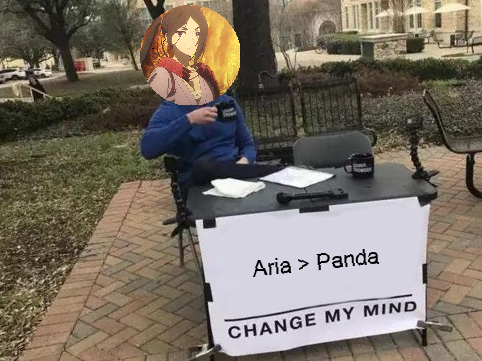
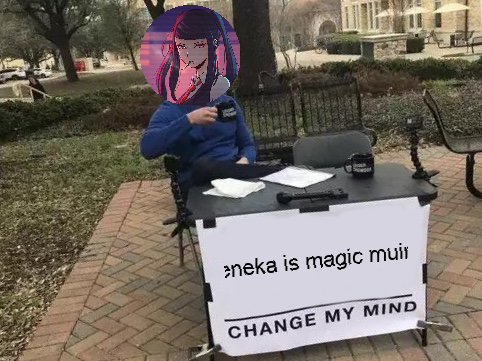
update ames
Updated gacha util mode option 'test'
Updated chara to accomodate mlb
Updated chara to accomodate rec rank
Added neneka assets

Changed region(s): [[0.2801, 0.0, 0.4979, 0.3047], [0.4668, 0.6704, 0.8714, 0.7618]]

diff --git a/commands/hatsune_new.py b/commands/hatsune_new.py
@@ -217,13 +217,16 @@ async def hatsune_chara(ctx, name, flags, emj, client, cmode="", mode="Profile")
     uedata = _ue_data(target, flags)
 
     # skill data
+    ddata = get_stats(target_id, flags)
+    ddata['uname_eng'] = cdata['uname_eng']
+    ddata['im'] = cdata['im']
 
     # equipment data
 
     # create page embeds
     c_embed = charaembed(cdata, cmode, skills, page_headings.copy(), 0)
     ue_embed = ueembed(uedata, skills, page_headings.copy(), 1)
-    d_embed = skillsembed(page_headings.copy(), 2)
+    d_embed = skillsembed(ddata, page_headings.copy(), 2)
 
     embeds = [c_embed, ue_embed, d_embed]
 
@@ -265,47 +268,50 @@ async def hatsune_chara(ctx, name, flags, emj, client, cmode="", mode="Profile")
     print('chara: successful!')
     return
 
-    
+#############################################################################################
+# subfunctions
 
+def get_stats(target_id, flags):
+    #WIP
+    func = '_stats:'
+    data = dict()
+    data['max_rank'] = 14
+    data['active'] = False
 
+    # grab eq Rank stats
+    stats = ("SELECT rank_up from princonne.chara_data_final "
+             "WHERE unit_id = {:s}".format(target_id))
 
+    try:
+        cursor = flags['cb_db'].cursor()
+        cursor.execute(stats, )
+    except mysql.connector.Error as err:
+        print(func, err)
+        cursor.close()
+        return data
+    else:
+        for rank in cursor:
+            rank = str(rank[0])
+            if rank == "Yes":
+                data['rank'] = str(data['max_rank'])
+            elif rank == 'Maybe':
+                data['rank'] = "-".join([str(data['max_rank'] - 1), str(data['max_rank'])])
+            elif rank == 'No':
+                data['rank'] = str(data['max_rank']-1)
+            else:
+                data['rank'] = '??'
 
-
-
-
-
-
-
-
-
-
-
-
-
-
-
-
-
-
-
-
-
-
-
-
-
-
-def get_stats(target, flags):
-    pass
+    return data
 
 #
-def skillsembed(page_h, ind):
+def skillsembed(data, page_h, ind):
     page_h[ind] = '**[{:s}]**'.format(page_h[ind])
-    star = '⭐'
+    #star = '⭐'
+    uncap = '??'
 
     embed = discord.Embed(
-        title="Test title",
-        description="Test description",
+        title="{:s}'s Data".format(data['uname_eng']),
+        description="WIP",
         timestamp=datetime.datetime.utcnow(),
         colour=rc())
 
@@ -316,11 +322,11 @@ def skillsembed(page_h, ind):
 
     embed.set_author(name="Hatsune's Copied Notes")
     embed.set_footer(text='Data page')
-    embed.set_thumbnail(url='https://redive.estertion.win/icon/item/31000.webp')
+    embed.set_thumbnail(url=data['im'])
 
     embed.add_field(
         name="Rec. Setup",
-        value="0⭐ - eq rank",
+        value=" ⭐ Rank ".join([uncap, data['rank']]),
         inline=True)
 
     embed.add_field(
@@ -489,7 +495,8 @@ def _chara_data(target_id, flags):
     get_chara_data = ("SELECT image, unit_name_eng, "
                       "ub_trans, skill_1_translation, skill_2_trans, "
                       "comment_trans, tag, skill_1_plus_trans, "
-                      "unit_name, union_burst, skill_1, skill_1_plus, skill_2, comment "
+                      "unit_name, union_burst, skill_1, skill_1_plus, skill_2, comment, "
+                      "image_2, union_burst_2, ub_2_trans "
                       "FROM princonne.chara_data_final "
                       "WHERE unit_id = {:d}".format(int(target_id)))
     try:
@@ -502,7 +509,7 @@ def _chara_data(target_id, flags):
         return False
     else:
         data = dict()
-        for (_i, _name, _ub, _sk1, _sk2, _c, _t, _sk1p, unjp, ubjp, sk1jp, sk1pjp, sk2jp, cjp) in cursor:
+        for (_i, _name, _ub, _sk1, _sk2, _c, _t, _sk1p, unjp, ubjp, sk1jp, sk1pjp, sk2jp, cjp, _i2, ub2jp, _ub2) in cursor:
             
             name = str(_name)
             if name[1].isupper():
@@ -534,16 +541,30 @@ def _chara_data(target_id, flags):
             data['sk1p'] =          str(sk1pjp)
             data['sk2'] =           str(sk2jp)
             data['comment'] =       str(cjp)
+            data['im2'] =           str(_i2)
+            data['ub2'] =           str(ub2jp)
+            data['ub2_eng'] =       str(_ub2)
         cursor.close()
 
     return data
 
 def charaembed(data, ue, skills, page_h, ind):
     remark, *comment = data['comment_eng'].replace('\t',"").replace('\n','').split('*')[:2]
-
-    #print(remark,comment)
     
-    embed = discord.Embed(title="{1:s}\n{0:s}".format(data['uname_eng'],data['uname']),
+    if remark == "":
+        remark = "Soon"
+    if comment == []:
+        comment = "Soon"
+    else:
+        comment = comment[0]
+    #print(remark,comment)
+
+    if ue == "mlb":
+        title = "{1:s} 6⭐\n{0:s} MLB".format(data['uname_eng'],data['uname'])
+    else:
+        title = "{1:s}\n{0:s}".format(data['uname_eng'],data['uname'])
+        
+    embed = discord.Embed(title=title,
                           description=remark,
                           timestamp=datetime.datetime.utcnow(),
                           colour=rc())
@@ -559,12 +580,21 @@ def charaembed(data, ue, skills, page_h, ind):
         inline=False)
 
     embed.add_field(name='Comment\n'+data['comment'],value=comment,inline=False)
+
     
     if data['im'] != 'None':
-        embed.set_thumbnail(url=data['im'])
+        if ue == "mlb":
+            embed.set_thumbnail(url=data['im2'])
+        else:
+            embed.set_thumbnail(url=data['im'])
+    
 
     if data['uname_eng'] != 'Onion':
-        embed.add_field(name="\n".join(["Union Burst "+skills['ub'],data['ub']]), value=data['ub_eng'])
+        if ue == "mlb":
+            embed.add_field(name="\n".join(["Union Burst +",data['ub2']]), value=data['ub2_eng'])
+        else:
+            embed.add_field(name="\n".join(["Union Burst "+skills['ub'],data['ub']]), value=data['ub_eng'])
+            
     else:
         embed.add_field(name="\n".join(["Onion Burst "+skills['ub'],data['ub']]), value=data['ub_eng'])
     

diff --git a/commands/roll.py b/commands/roll.py
@@ -17,7 +17,7 @@ from discord.ext import commands
 from misc import randcolour as rc
 from prototype import get_team as gt
 
-async def roll(ctx, emj, t=10):
+async def roll(ctx, emj, t=10, mode=''):
     channel = ctx.channel
     author = ctx.message.author
     if t > 10:
@@ -28,7 +28,7 @@ async def roll(ctx, emj, t=10):
         print('gacha: invalid roll input')
         await channel.send('<:shioread:449255102721556490>')
         return
-    raw_result = gacha_result(t)
+    raw_result = gacha_result(t, mode)
     async with ctx.typing():
         create_gacha_result(raw_result)
         result = discord.File("gacha/gresult.jpg", filename="gresult.jpg")
@@ -129,37 +129,44 @@ def create_gacha_result(result):
     print('cgr: success - {:f}s'.format(time.time() - st))
     return
 
-def gacha_result(t=10):
+def gacha_result(t=10, mode=''):
     r_pool, sr_pool, ssr_pool = read_pool()
-    ssr_rate = 0.025
+    ssr_rate = 0.05
     sr_rate = 0.18
     r_rate = 1 - ssr_rate - sr_rate
 
     # LIMITED/SEASONAL ADDITION - PLEASE MANUALLY FILL
     # DOES NOT APPLY TO RATEUPS FOR NORMAL POOL CHARAS!
-    ssr_up = ['ilya']
-    ssr_up_rate_indiv = 0.007
+    ssr_up = ['neneka', 'christina', 'muimi']
+    ssr_up_rate_indiv = 0.005
     
     rolls = []
     grain = 100000
-    for i in range(t):
-        roll = random.randint(0,grain)
-        if (i+1)%10 != 0:
-            if roll < (r_rate * grain):
-                chara = random.choice(r_pool)
-                rolls.append((chara,1))
-            elif roll < ((r_rate + sr_rate) * grain):
-                chara = random.choice(sr_pool)
-                rolls.append((chara,2))
+
+    if mode == '':
+        for i in range(t):
+            roll = random.randint(0,grain)
+            if (i+1)%10 != 0:
+                if roll < (r_rate * grain):
+                    chara = random.choice(r_pool)
+                    rolls.append((chara,1))
+                elif roll < ((r_rate + sr_rate) * grain):
+                    chara = random.choice(sr_pool)
+                    rolls.append((chara,2))
+                else:
+                    chara = random.choice(ssr_pool)
+                    rolls.append(tier(3, ssr_pool, ssr_rate, ssr_up, ssr_up_rate_indiv))
             else:
-                chara = random.choice(ssr_pool)
-                rolls.append(tier(3, ssr_pool, ssr_rate, ssr_up, ssr_up_rate_indiv))
-        else:
-            if roll < ((r_rate + sr_rate) * grain):
-                chara = random.choice(sr_pool)
-                rolls.append((chara,2))
-            else:
-                rolls.append(tier(3, ssr_pool, ssr_rate, ssr_up, ssr_up_rate_indiv))
+                if roll < ((r_rate + sr_rate) * grain):
+                    chara = random.choice(sr_pool)
+                    rolls.append((chara,2))
+                else:
+                    rolls.append(tier(3, ssr_pool, ssr_rate, ssr_up, ssr_up_rate_indiv))
+    elif mode == 'test':
+        for i in range(t):
+            roll = random.randint(0,grain)
+            rolls.append(tier(3, ssr_pool, ssr_rate, ssr_up, ssr_up_rate_indiv))
+        
     return rolls
 
 def tier(pool_rarity, pool, pool_rate ,pool_limited, limited_rate_indiv):
@@ -194,25 +201,32 @@ async def spark(ctx, emj, client):
     sr_tier = 0
     ssr_tier = []
 
+    spec = []
     for chara, rarity in rolls:
-        if rarity == 1:
+        if abs(rarity) == 1:
             r_tier += 1
-        elif rarity == 2:
+        elif abs(rarity) == 2:
             sr_tier += 1
-        else:
+        elif abs(rarity) == 3:
             ssr_tier.append(chara)
+        else:
+            #ssr_tier.append(chara)
+            pass
 
-    unique_set = set(ssr_tier)
-    unique_set = list(unique_set)
+        if rarity < 0:
+            spec.append(chara)
+
+    unique_set = list(set(ssr_tier))
+    #unique_set = list(unique_set)
     unique_set.sort()
     teams = gt(client)
     
     count = [(chara, ssr_tier.count(chara)) for chara in unique_set]
 
-    await channel.send(embed=spark_embed(author, count, r_tier, sr_tier, len(ssr_tier), teams))
+    await channel.send(embed=spark_embed(author, count, r_tier, sr_tier, len(ssr_tier), teams, spec))
     return
 
-def spark_embed(author, count, r, sr, ssr, teams):
+def spark_embed(author, count, r, sr, ssr, teams, spec):
     embed = discord.Embed(
         title="Spark Summary",
         description="Prepare for salt, {:s}".format(author.name),
@@ -246,13 +260,24 @@ def spark_embed(author, count, r, sr, ssr, teams):
         value='**{:s}**'.format(str(tears)),
         inline=True
         )
+
+    ssrlist = []
+    for chara, order in count:
+        if chara in spec:
+            temp = chara.join(['**', '**'])
+            ssrlist.append('> '+\
+                " ".join([teams['template'].format(chara,teams[chara]),
+                       temp,
+                       'x'+str(order)]))
+        else:
+            ssrlist.append(
+                " ".join([teams['template'].format(chara,teams[chara]),
+                          chara,
+                          'x'+str(order)]))
+    
     embed.add_field(
         name="SSR Rolled",
-        value="\n".join(
-            [" ".join([teams['template'].format(chara,teams[chara]),
-                       chara,
-                       'x'+str(order)]) for chara, order in count]
-            ),
+        value="\n".join(ssrlist),
         inline=False
         )
     return embed

diff --git a/re_ames.py b/re_ames.py
@@ -105,6 +105,7 @@ __chara =           True and _hatsune
 __ue =              True and _hatsune
 __tag =             True and _hatsune
 __pos =             True and _hatsune
+__data =            True and _hatsune
 
 _guide =            True
 
@@ -386,8 +387,8 @@ async def police(ctx, *user:discord.Member):
 # GACHA
 @client.command(enabled=_gacha)
 @commands.cooldown(1, 2, commands.BucketType.guild)
-async def gacha(ctx, t=10):
-    await roll.roll(ctx, emj, t)
+async def gacha(ctx, t=10, mode=''):
+    await roll.roll(ctx, emj, t, mode)
 
 # SPARK
 @client.command(enabled=_gacha)
@@ -414,6 +415,14 @@ async def chara(ctx, name="", cmode=""):
 async def ue(ctx, name:str):
     if flags['db_isconnected']:
         await hatsune_new.hatsune_chara(ctx, name, flags, emj, client, mode="UE")
+    else:
+        await ctx.channel.send(emj['sarenf']+'The database isn\'t connected!')
+
+# HATSUNE - DATA
+@client.command(enabled=__data, aliases=['r14'])
+async def data(ctx, name:str):
+    if flags['db_isconnected']:
+        await hatsune_new.hatsune_chara(ctx, name, flags, emj, client, mode="Data")
     else:
         await ctx.channel.send(emj['sarenf']+'The database isn\'t connected!')
     
